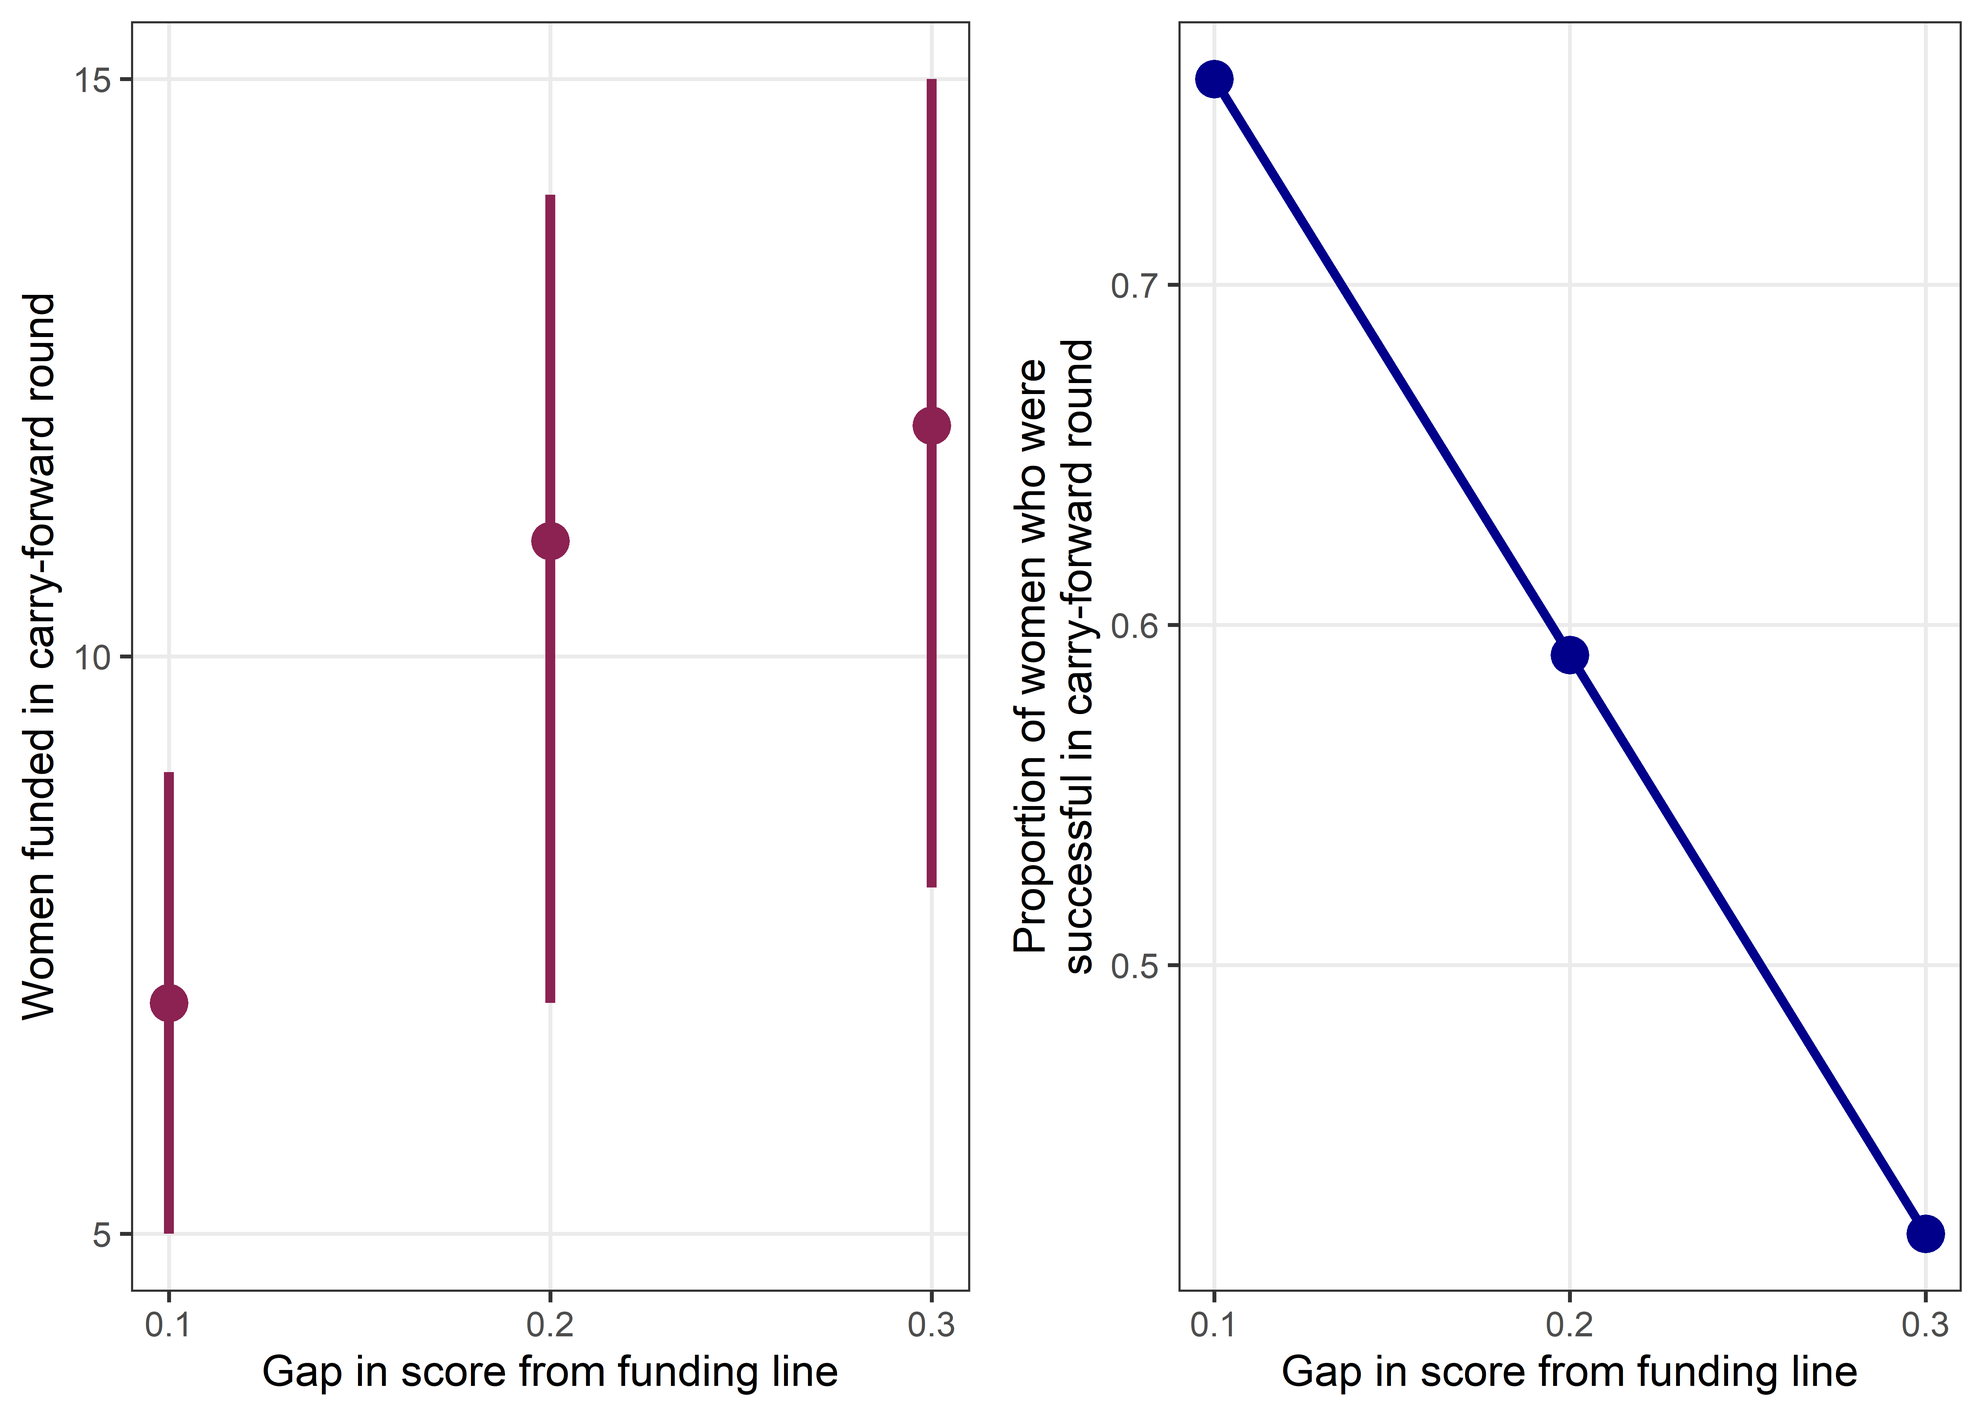
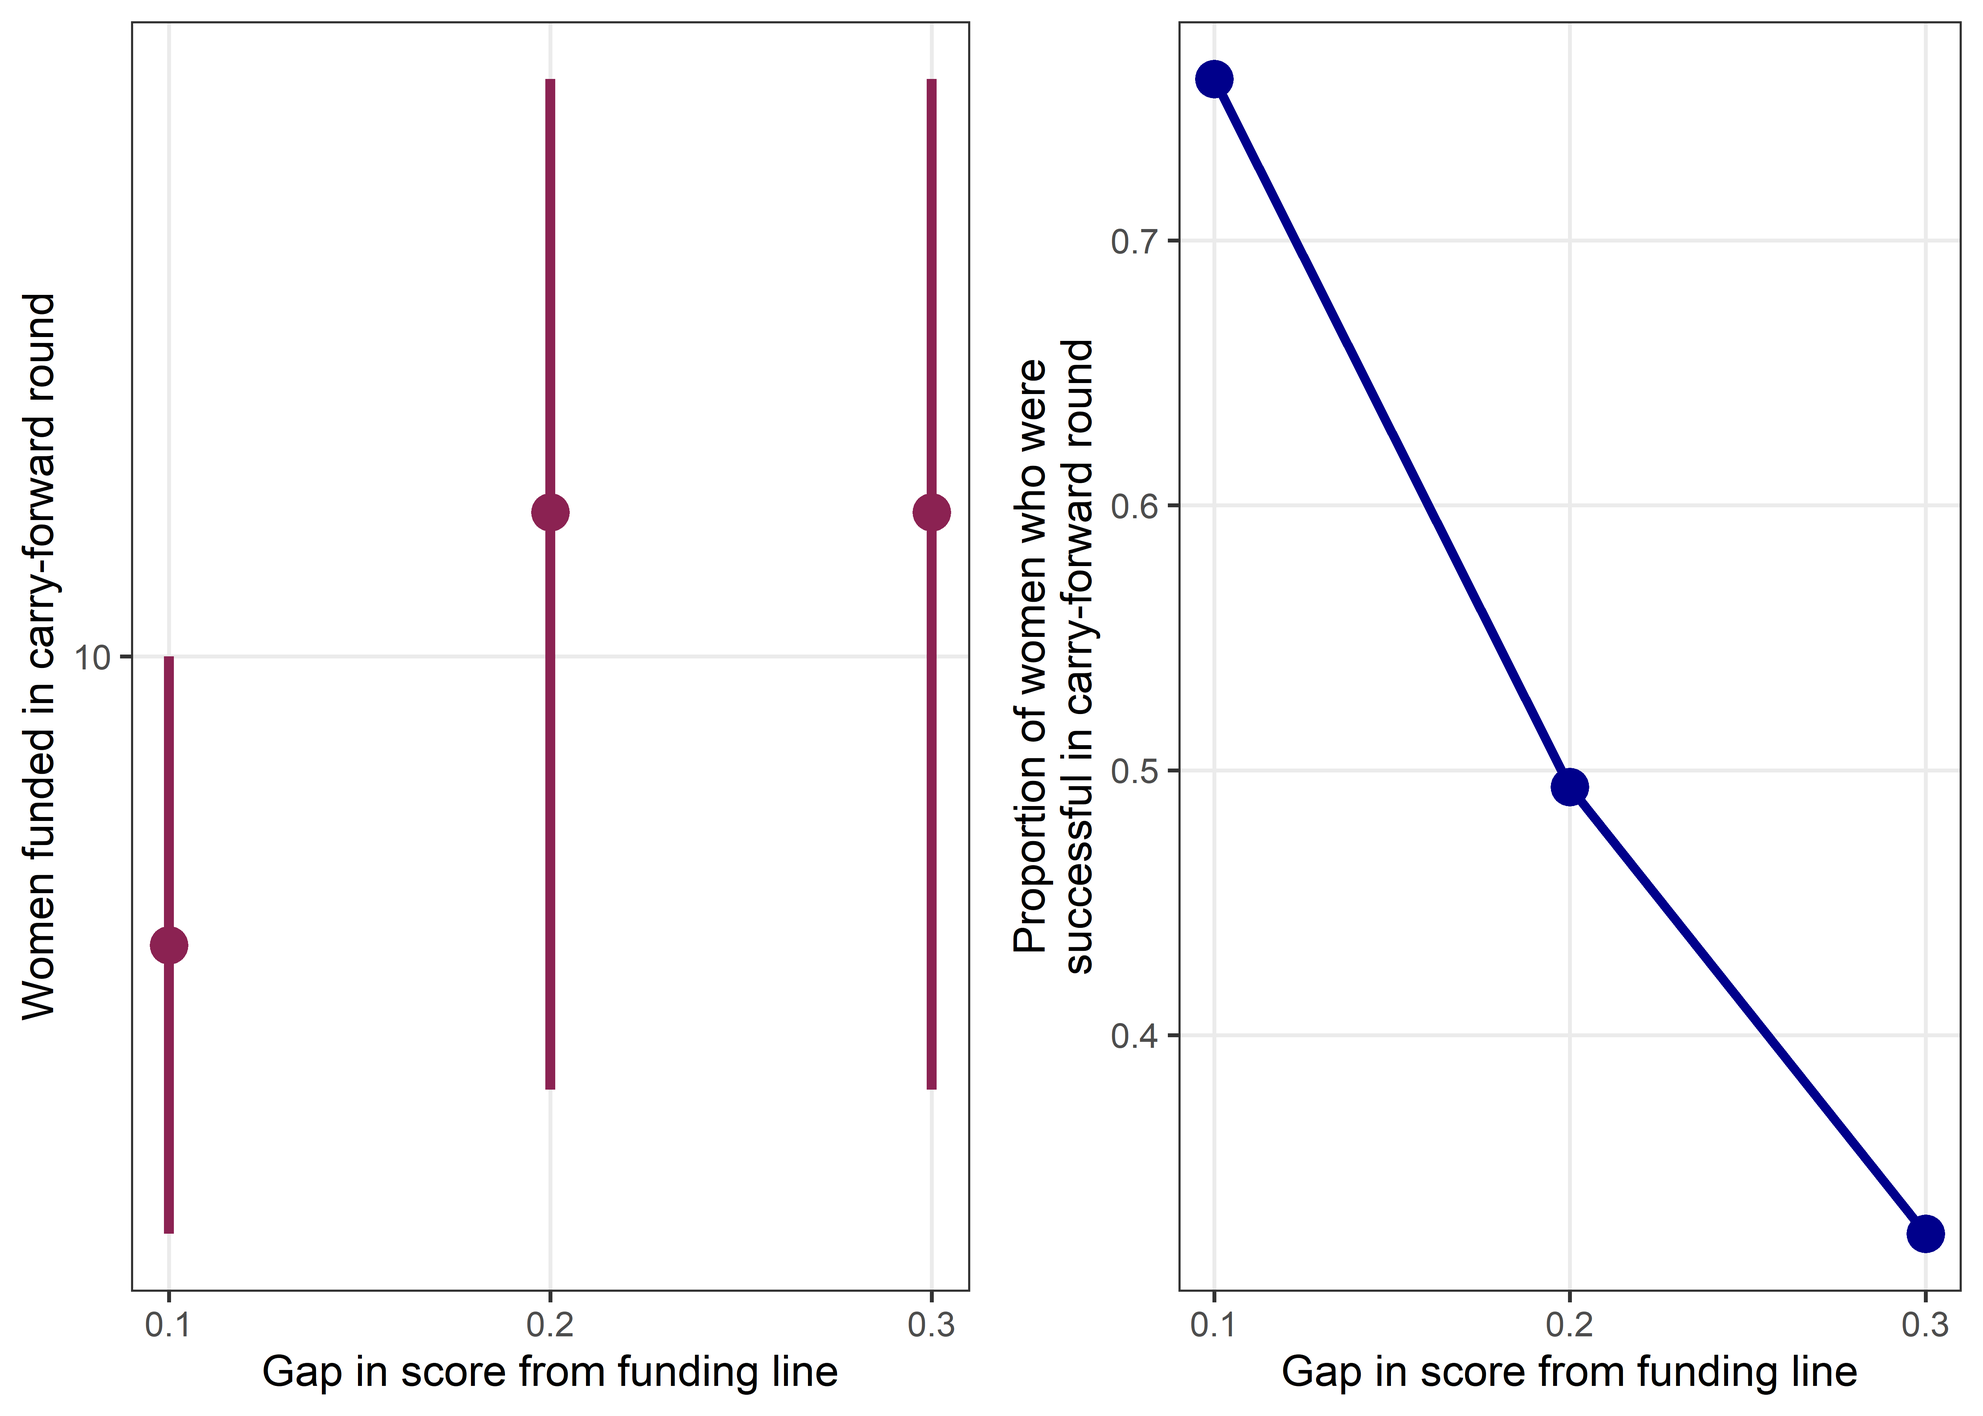
Final draft

diff --git a/content/post/funding-gender-disparity.html b/content/post/funding-gender-disparity.html
@@ -16,12 +16,12 @@ link-citations: true
 <h2>The gender disparity in research funding.</h2>
 <p>There is a large gender disparity in the number of research grants awarded in Australia. For years men have won more funding than women. This disparity in success is driven by a disparity in applications, as women apply far less often. Success rates for men and women are relatively close, so policies to reduce the gender disparity in funding should focus on encouraging more applications from women. The idea of limiting the number of applications from men using quotas per institution has been raised.</p>
 <p>The figures below show the annual application numbers for the Australian Research Council (ARC), with an average gap between men and women of around 8,000 applications per year and around 2,650 awards.<sup>1</sup></p>
-<p><img src="/post/funding-gender-disparity_files/figure-html/arcPlot-1.png" width="2000" /></p>
+<p><img src="/post/funding-gender-disparity_files/figure-html/arcPlot-1.png" width="70%" /></p>
 </div>
 <div id="funding-peer-review" class="section level2">
 <h2>Funding peer review</h2>
 <p>Just in case you are unfamiliar with how research grants are awarded, researchers spend a long time preparing detailed applications, which are then peer reviewed, given a score and ranked. Those ranked high enough win funding, and those below the funding line get nothing. There are lots of different schemes, with some funding projects and some funding people. Most funding schemes work on an annual basis. It’s a tough system and success rates have been falling for years, as shown by the graph below, again using data from the ARC.</p>
-<p><img src="/post/funding-gender-disparity_files/figure-html/success.rates.by.gender-1.png" width="2800" /></p>
+<p><img src="/post/funding-gender-disparity_files/figure-html/success.rates.by.gender-1.png" width="70%" /></p>
 </div>
 <div id="carrying-it-forward" class="section level2">
 <h2>Carrying-it-forward</h2>
@@ -48,27 +48,29 @@ link-citations: true
 <h2>Simulated number of additional women funded</h2>
 <p>These first results use a female:male ratio of 30:70.</p>
 <p>The plots below show the number of women funded by carrying-forward their applications and the success rate in the second round for the carried-over applications. The x-axis is the gap between the funding line and those offered the carry-forward.</p>
-<p><img src="/post/funding-gender-disparity_files/figure-html/plot.results.30_70-1.png" width="2800" /></p>
+<p><img src="/post/funding-gender-disparity_files/figure-html/plot.results.30_70-1.png" width="70%" /></p>
 <p>A narrow gap in the score of 0.1 leads to a very high success rate for the carried-over applications with a proportion of 0.76 funded in the next round.
 Widening the gap lowers the success rate, because those further from the funding line are included, and by virtue of having lower scores they need more improvements in their track record to get funded.
-A gap of 0.2 has a 0.59 proportion success rate and a median number of 11 women funded by carry-forward. Increasing the funding gap to 0.3 only increases the median number of women funded to 12.</p>
+A gap of 0.2 has a 0.49 proportion success rate and a median number of 11 women funded by carry-forward. Increasing the funding gap to 0.3 only increases the median number of women funded to 11.</p>
 <p>The number of additional women funded is relatively modest at 11 per 1,000 applications, although it increases the absolute number of women funded from 60 to 71 per 1,000 applications.</p>
 </div>
 <div id="what-if-more-women-apply" class="section level2">
 <h2>What if more women apply?</h2>
 <p>One potential effect of the policy is that more women might apply because they know their application could count for two years. This would mean more women being funded in the first round, and even more women in the carry-forward round too.</p>
 <p>To model this I changed the female:male ratio from 30:70 to 35:65.</p>
-<p><img src="/post/funding-gender-disparity_files/figure-html/plot.results.35_65-1.png" width="1600" /></p>
-<p>So around another 10 women would be funded in the first round. There was no large flow-on to the carry-forward round, so the combined benefit is the 10 women in the first round plus around 12 women from the carry-forward round. So an additional 22 women funded per 1,000 applications.</p>
+<p><img src="/post/funding-gender-disparity_files/figure-html/plot.results.35_65-1.png" width="70%" /></p>
+<p>So around another 10 women would be funded in the first round. There was a small flow-on to the carry-forward round with an average of 1 extra women funded, so the combined benefit is the 10 women in the first round plus around 12 women from the carry-forward round. So an additional 22 women funded per 1,000 applications.</p>
 <div id="summary" class="section level4">
 <h4>Summary:</h4>
-<p>So this policy is not going to create the ideal 50:50 balance in research funding, but it would be expected to add a good amount of female researchers to the numbers funded.</p>
+<p>This policy is not going to create the ideal 50:50 balance in research funding, but it would likely fund a good number of additional female researchers for a relatively simple change to the funding process.</p>
 </div>
-<div id="caveats" class="section level3">
-<h3>Caveats</h3>
+<div id="limitations" class="section level3">
+<h3>Limitations</h3>
 <p>This is a very simplistic simulation of peer reviewers’ scores with many large assumptions. Given the complexities of the funding system and the often complex behaviour of researchers, the reality could be very different from that shown here.</p>
-<p>An increase in the female:male ratio from 30:70 to 35:65 is a big jump and may be too ambitious.</p>
-<p>I did also examine a system in which the weighting was 33% for track record instead of the 25% for the NHMRC model, and as expected more women were funded using the carry-forward. A carry-forward based on track record would likely be more effective for schemes where track record had a higher percent of the overall score, the obvious candidate being fellowship schemes.</p>
+<p>One complexity I overlooked is that applications are reviewed in panels which have their own funding line (I assumed an overall funding line). This increases the year-to-year variability in the funding line, so I would expect it to increase the variability in the number of additional women funded, but not the average.</p>
+<p>One argument against this policy is that a year can be a long time in science and hence the applications may be out of date and so should not be carried-forward. However, most projects and fellowships are 3 years or longer, hence funding systems are already vulnerable to any rapid changes in discovery.</p>
+<p>My assumed increase in the female:male ratio from 30:70 to 35:65 is a big jump and may be unrealistic.</p>
+<p>I also examined a system in which the weighting was 33% for track record instead of the 25% for the NHMRC model (results not shown), and as expected more women were funded using the carry-forward. A carry-forward based on track record would likely be more effective for schemes where track record had a higher percent of the overall score, the obvious candidate being fellowship schemes.</p>
 <div id="tech" class="section level4">
 <h4>Technical details of the simulations</h4>
 <p>I fitted a Bayesian model to the three observed scores for: significance, track record and quality.

diff --git a/public/post/funding-gender-disparity/index.html b/public/post/funding-gender-disparity/index.html
@@ -221,12 +221,12 @@
 <h2>The gender disparity in research funding.</h2>
 <p>There is a large gender disparity in the number of research grants awarded in Australia. For years men have won more funding than women. This disparity in success is driven by a disparity in applications, as women apply far less often. Success rates for men and women are relatively close, so policies to reduce the gender disparity in funding should focus on encouraging more applications from women. The idea of limiting the number of applications from men using quotas per institution has been raised.</p>
 <p>The figures below show the annual application numbers for the Australian Research Council (ARC), with an average gap between men and women of around 8,000 applications per year and around 2,650 awards.<sup>1</sup></p>
-<p><img src="/post/funding-gender-disparity_files/figure-html/arcPlot-1.png" width="2000" /></p>
+<p><img src="/post/funding-gender-disparity_files/figure-html/arcPlot-1.png" width="70%" /></p>
 </div>
 <div id="funding-peer-review" class="section level2">
 <h2>Funding peer review</h2>
 <p>Just in case you are unfamiliar with how research grants are awarded, researchers spend a long time preparing detailed applications, which are then peer reviewed, given a score and ranked. Those ranked high enough win funding, and those below the funding line get nothing. There are lots of different schemes, with some funding projects and some funding people. Most funding schemes work on an annual basis. It’s a tough system and success rates have been falling for years, as shown by the graph below, again using data from the ARC.</p>
-<p><img src="/post/funding-gender-disparity_files/figure-html/success.rates.by.gender-1.png" width="2800" /></p>
+<p><img src="/post/funding-gender-disparity_files/figure-html/success.rates.by.gender-1.png" width="70%" /></p>
 </div>
 <div id="carrying-it-forward" class="section level2">
 <h2>Carrying-it-forward</h2>
@@ -253,27 +253,29 @@
 <h2>Simulated number of additional women funded</h2>
 <p>These first results use a female:male ratio of 30:70.</p>
 <p>The plots below show the number of women funded by carrying-forward their applications and the success rate in the second round for the carried-over applications. The x-axis is the gap between the funding line and those offered the carry-forward.</p>
-<p><img src="/post/funding-gender-disparity_files/figure-html/plot.results.30_70-1.png" width="2800" /></p>
+<p><img src="/post/funding-gender-disparity_files/figure-html/plot.results.30_70-1.png" width="70%" /></p>
 <p>A narrow gap in the score of 0.1 leads to a very high success rate for the carried-over applications with a proportion of 0.76 funded in the next round.
 Widening the gap lowers the success rate, because those further from the funding line are included, and by virtue of having lower scores they need more improvements in their track record to get funded.
-A gap of 0.2 has a 0.59 proportion success rate and a median number of 11 women funded by carry-forward. Increasing the funding gap to 0.3 only increases the median number of women funded to 12.</p>
+A gap of 0.2 has a 0.49 proportion success rate and a median number of 11 women funded by carry-forward. Increasing the funding gap to 0.3 only increases the median number of women funded to 11.</p>
 <p>The number of additional women funded is relatively modest at 11 per 1,000 applications, although it increases the absolute number of women funded from 60 to 71 per 1,000 applications.</p>
 </div>
 <div id="what-if-more-women-apply" class="section level2">
 <h2>What if more women apply?</h2>
 <p>One potential effect of the policy is that more women might apply because they know their application could count for two years. This would mean more women being funded in the first round, and even more women in the carry-forward round too.</p>
 <p>To model this I changed the female:male ratio from 30:70 to 35:65.</p>
-<p><img src="/post/funding-gender-disparity_files/figure-html/plot.results.35_65-1.png" width="1600" /></p>
-<p>So around another 10 women would be funded in the first round. There was no large flow-on to the carry-forward round, so the combined benefit is the 10 women in the first round plus around 12 women from the carry-forward round. So an additional 22 women funded per 1,000 applications.</p>
+<p><img src="/post/funding-gender-disparity_files/figure-html/plot.results.35_65-1.png" width="70%" /></p>
+<p>So around another 10 women would be funded in the first round. There was a small flow-on to the carry-forward round with an average of 1 extra women funded, so the combined benefit is the 10 women in the first round plus around 12 women from the carry-forward round. So an additional 22 women funded per 1,000 applications.</p>
 <div id="summary" class="section level4">
 <h4>Summary:</h4>
-<p>So this policy is not going to create the ideal 50:50 balance in research funding, but it would be expected to add a good amount of female researchers to the numbers funded.</p>
+<p>This policy is not going to create the ideal 50:50 balance in research funding, but it would likely fund a good number of additional female researchers for a relatively simple change to the funding process.</p>
 </div>
-<div id="caveats" class="section level3">
-<h3>Caveats</h3>
+<div id="limitations" class="section level3">
+<h3>Limitations</h3>
 <p>This is a very simplistic simulation of peer reviewers’ scores with many large assumptions. Given the complexities of the funding system and the often complex behaviour of researchers, the reality could be very different from that shown here.</p>
-<p>An increase in the female:male ratio from 30:70 to 35:65 is a big jump and may be too ambitious.</p>
-<p>I did also examine a system in which the weighting was 33% for track record instead of the 25% for the NHMRC model, and as expected more women were funded using the carry-forward. A carry-forward based on track record would likely be more effective for schemes where track record had a higher percent of the overall score, the obvious candidate being fellowship schemes.</p>
+<p>One complexity I overlooked is that applications are reviewed in panels which have their own funding line (I assumed an overall funding line). This increases the year-to-year variability in the funding line, so I would expect it to increase the variability in the number of additional women funded, but not the average.</p>
+<p>One argument against this policy is that a year can be a long time in science and hence the applications may be out of date and so should not be carried-forward. However, most projects and fellowships are 3 years or longer, hence funding systems are already vulnerable to any rapid changes in discovery.</p>
+<p>My assumed increase in the female:male ratio from 30:70 to 35:65 is a big jump and may be unrealistic.</p>
+<p>I also examined a system in which the weighting was 33% for track record instead of the 25% for the NHMRC model (results not shown), and as expected more women were funded using the carry-forward. A carry-forward based on track record would likely be more effective for schemes where track record had a higher percent of the overall score, the obvious candidate being fellowship schemes.</p>
 <div id="tech" class="section level4">
 <h4>Technical details of the simulations</h4>
 <p>I fitted a Bayesian model to the three observed scores for: significance, track record and quality.

diff --git a/public/post/2020-02-28-first-post/index.html b/public/post/2020-02-28-first-post/index.html
@@ -209,6 +209,7 @@
                 <p>The title for this blog is a homage the ABC TV show &ldquo;<a href="https://www.abc.net.au/mediawatch/%5D">Media Watch</a>&rdquo; which critiques the Australian media and is never short of content. Similarly there&rsquo;s a lot wrong in the way people use statistics, so this blog is mainly about the use and misuse of statistics.</p>
 <p>I&rsquo;ve got a post coming on how my research has been misused by those trying to deny the climate crisis. I also want to write about some statistical mistakes I&rsquo;ve made in published papers, which I realise may just help the climate change propagandists to undermine my credibility.</p>
 <p>I was inspired by <a href="https://alison.rbind.io">Alison Hill</a> to start this blog, thanks to her great talk at <a href="https://ysc2019.netlify.com">YSC2019</a>. The blog theme was borrowed with permission from <a href="https://zhaohuabing.com">Zhao Huabing</a>.</p>
+<p>I am still learning about blogs and blogdown, so you will find problems in the pages with broken links and equations not rendering. Please do contact me if you have any improvements or fixes.</p>
 
 
                 

diff --git a/content/post/2020-02-28-first-post.md b/content/post/2020-02-28-first-post.md
@@ -11,3 +11,5 @@ The title for this blog is a homage the ABC TV show "[Media Watch](https://www.a
 I've got a post coming on how my research has been misused by those trying to deny the climate crisis. I also want to write about some statistical mistakes I've made in published papers, which I realise may just help the climate change propagandists to undermine my credibility.
 
 I was inspired by [Alison Hill](https://alison.rbind.io) to start this blog, thanks to her great talk at [YSC2019](https://ysc2019.netlify.com). The blog theme was borrowed with permission from [Zhao Huabing](https://zhaohuabing.com).
+
+I am still learning about blogs and blogdown, so you will find problems in the pages with broken links and equations not rendering. Please do contact me if you have any improvements or fixes.
